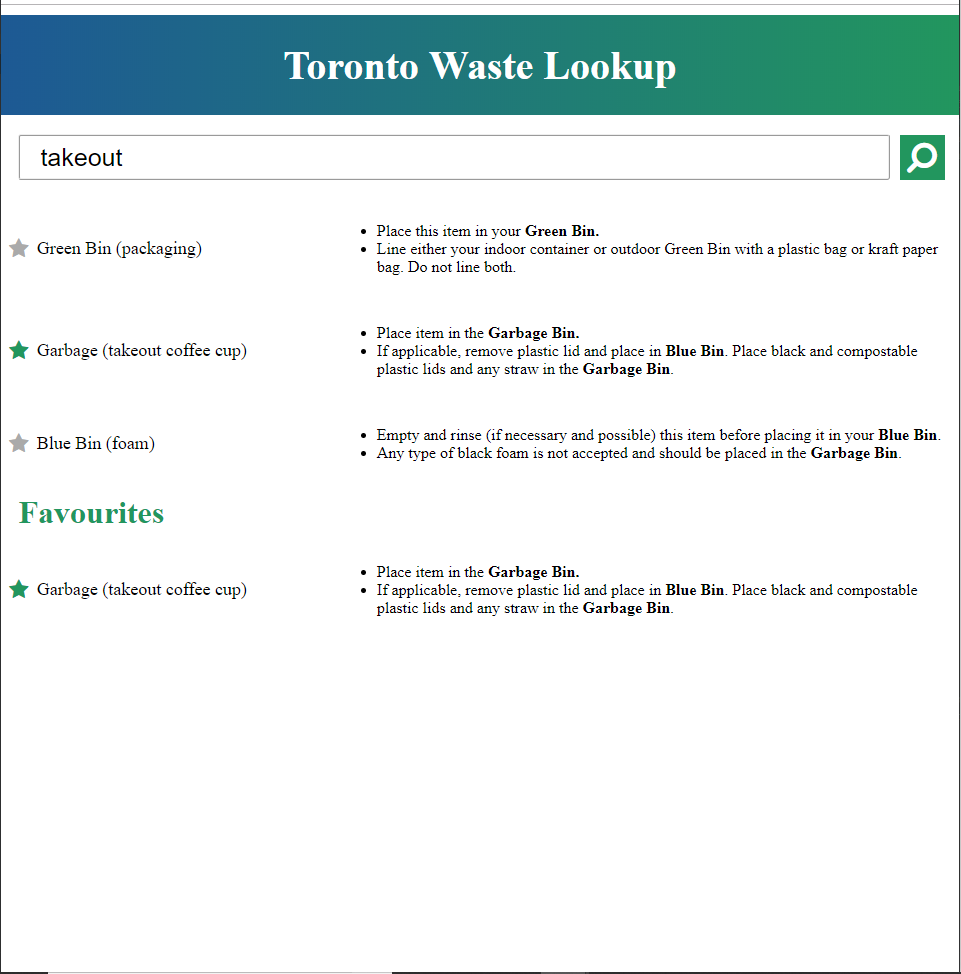
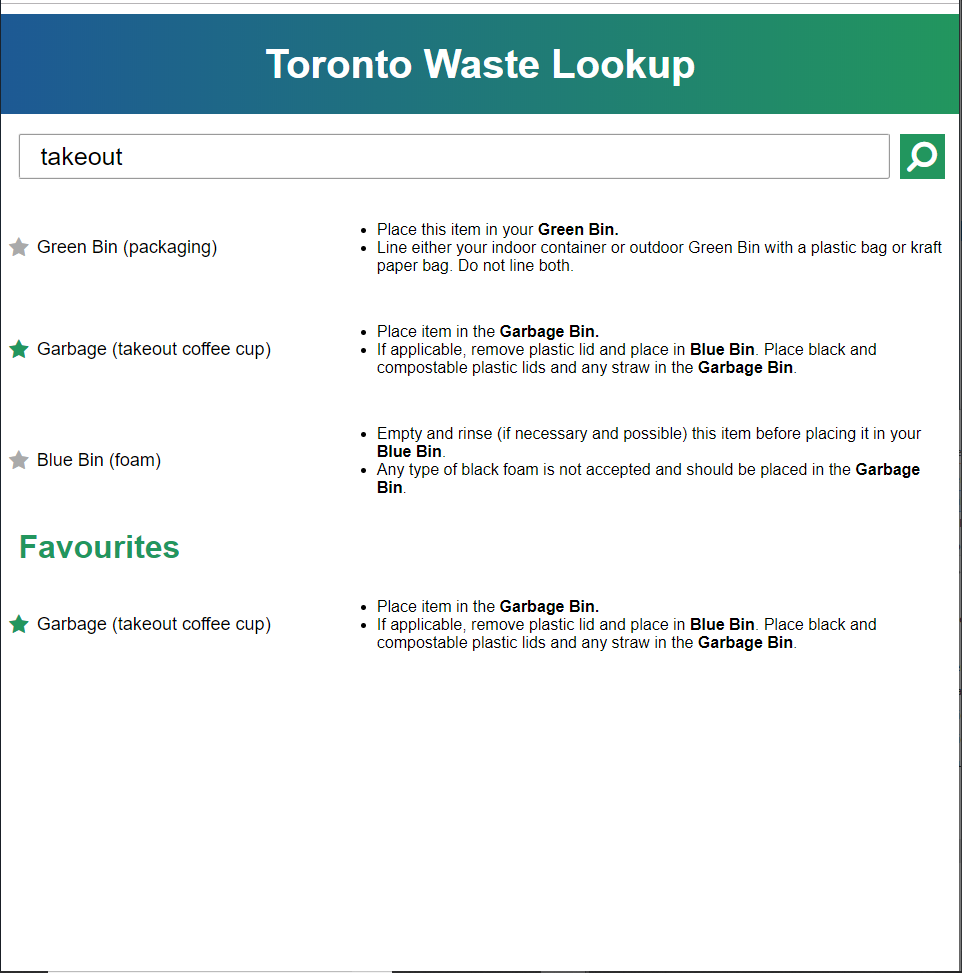
changing font family

diff --git a/src/styles.less b/src/styles.less
@@ -2,5 +2,6 @@
 @color-blue: #1D5994;
 @color-gray: #AAAAAA;
 body {
+  font-family: sanSerif, sans-serif;
   margin: 0;
 }
